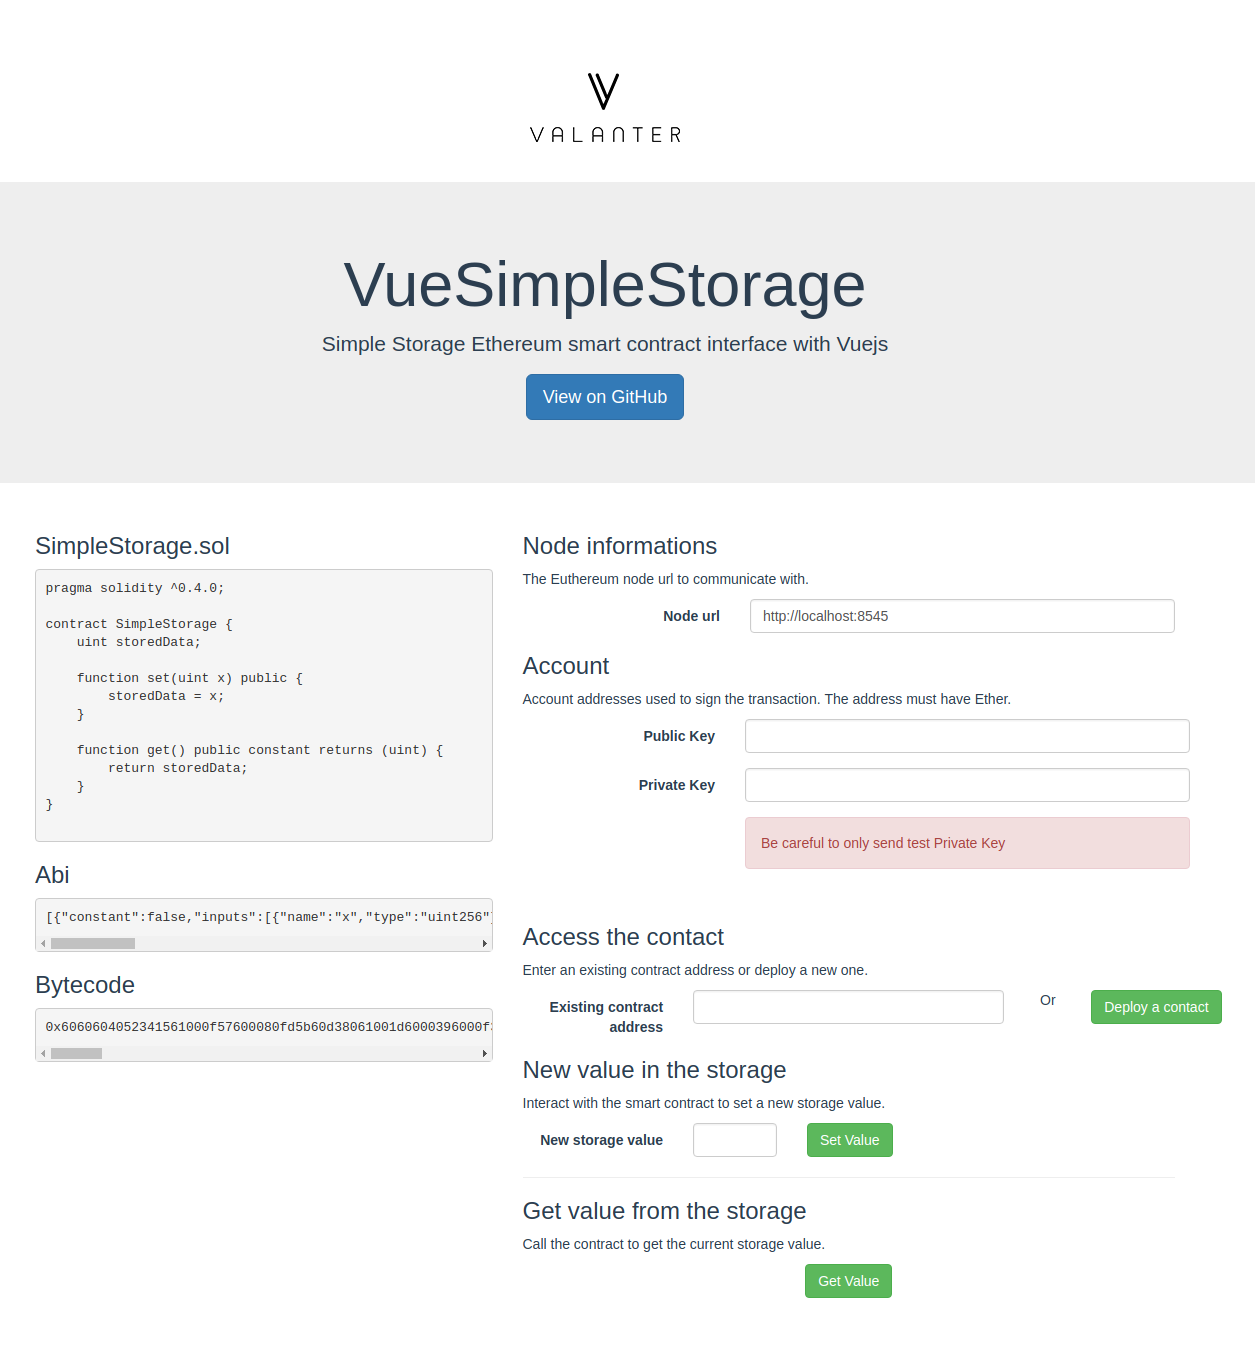
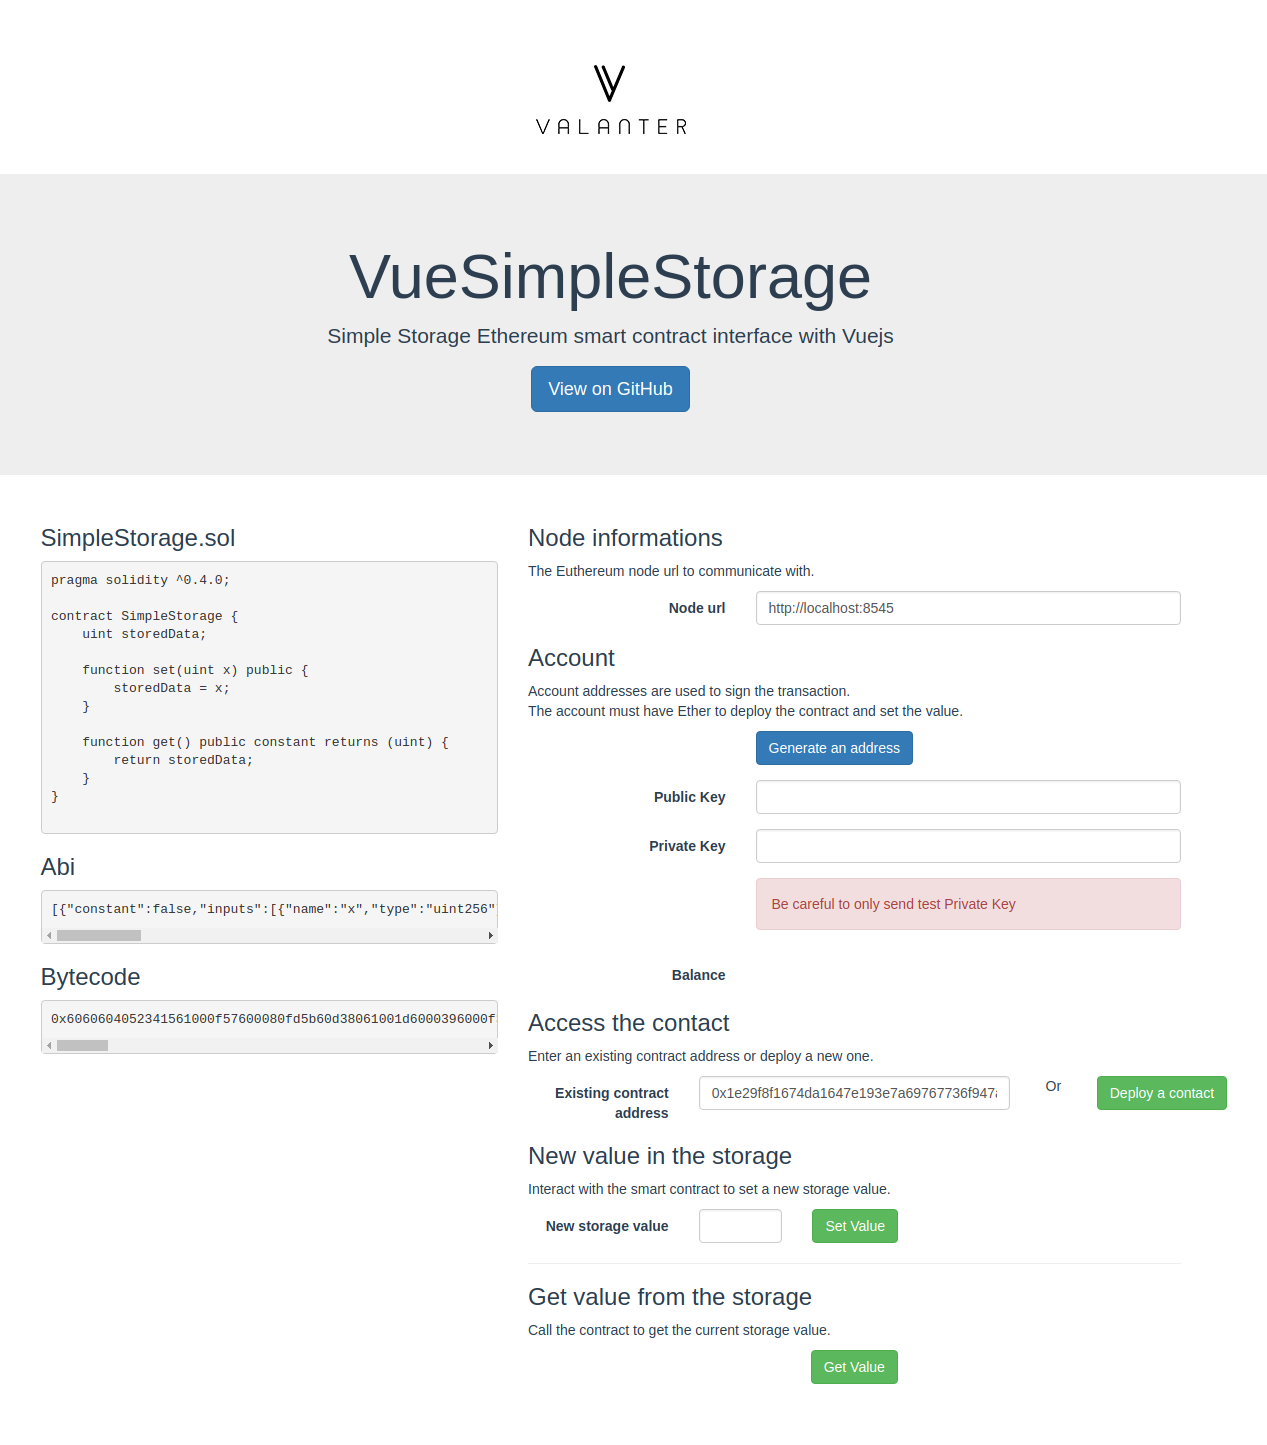
change image and text

diff --git a/src/components/SimpleStorage.vue b/src/components/SimpleStorage.vue
@@ -51,7 +51,8 @@ contract SimpleStorage {
             </div>
             <h3>Account</h3>
             <p>
-              Account addresses used to sign the transaction. The address must have Ether.
+              Account addresses are used to sign the transaction.<br />
+              The account must have Ether to deploy the contract and set the value.
             </p>
             <div class="form-group">
               <label for="address" class="col-md-4 control-label text-right"></label>
